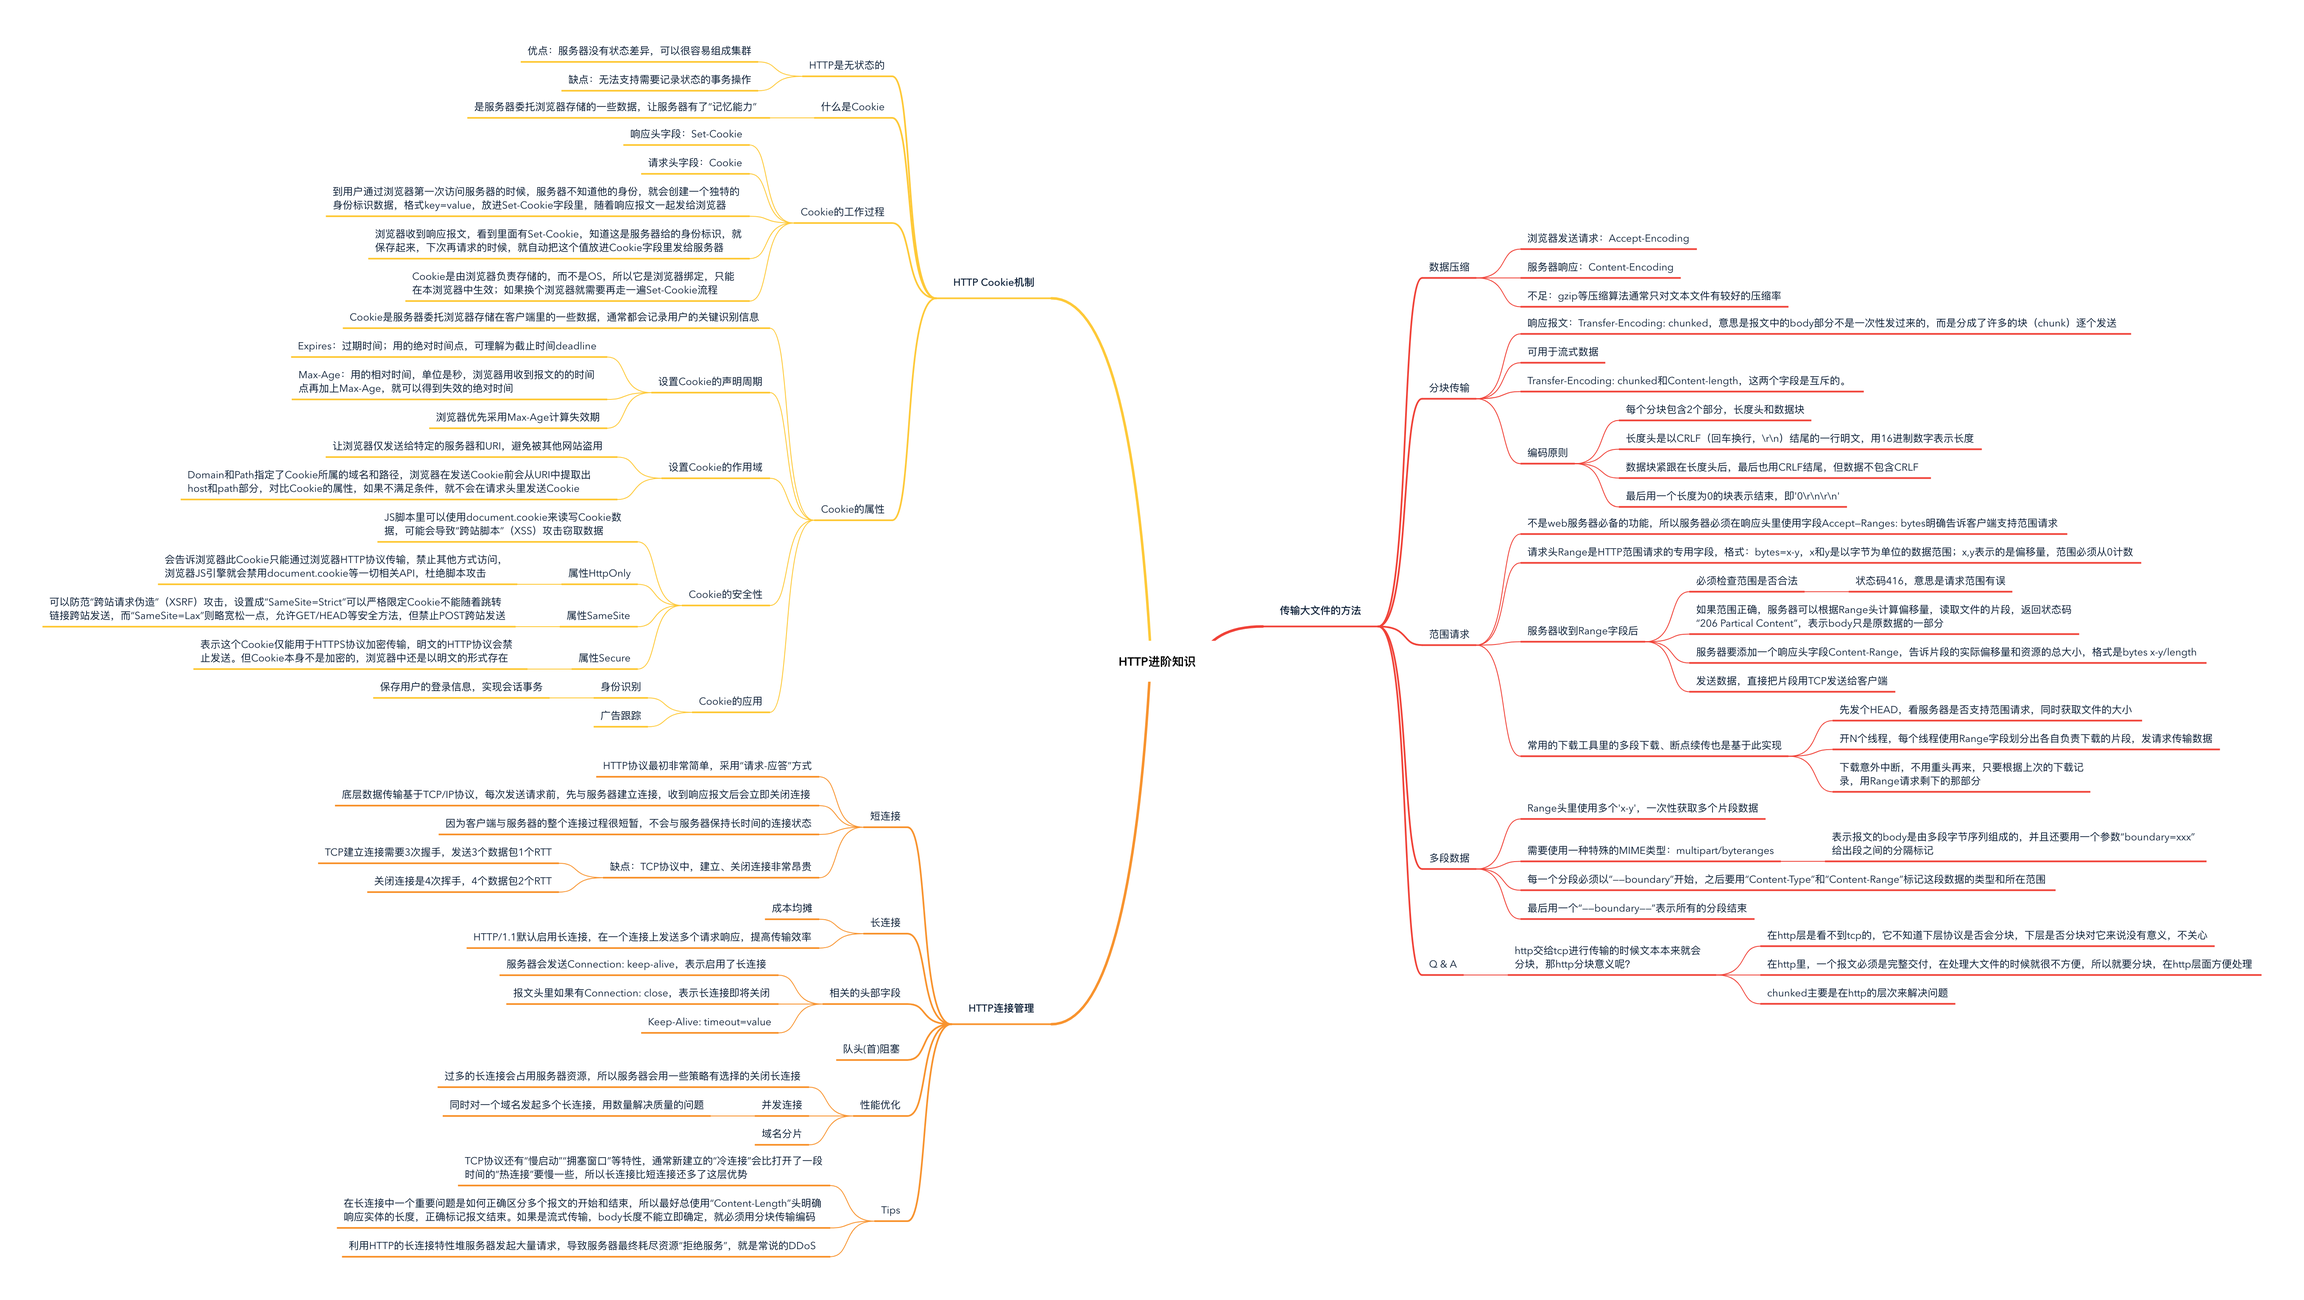
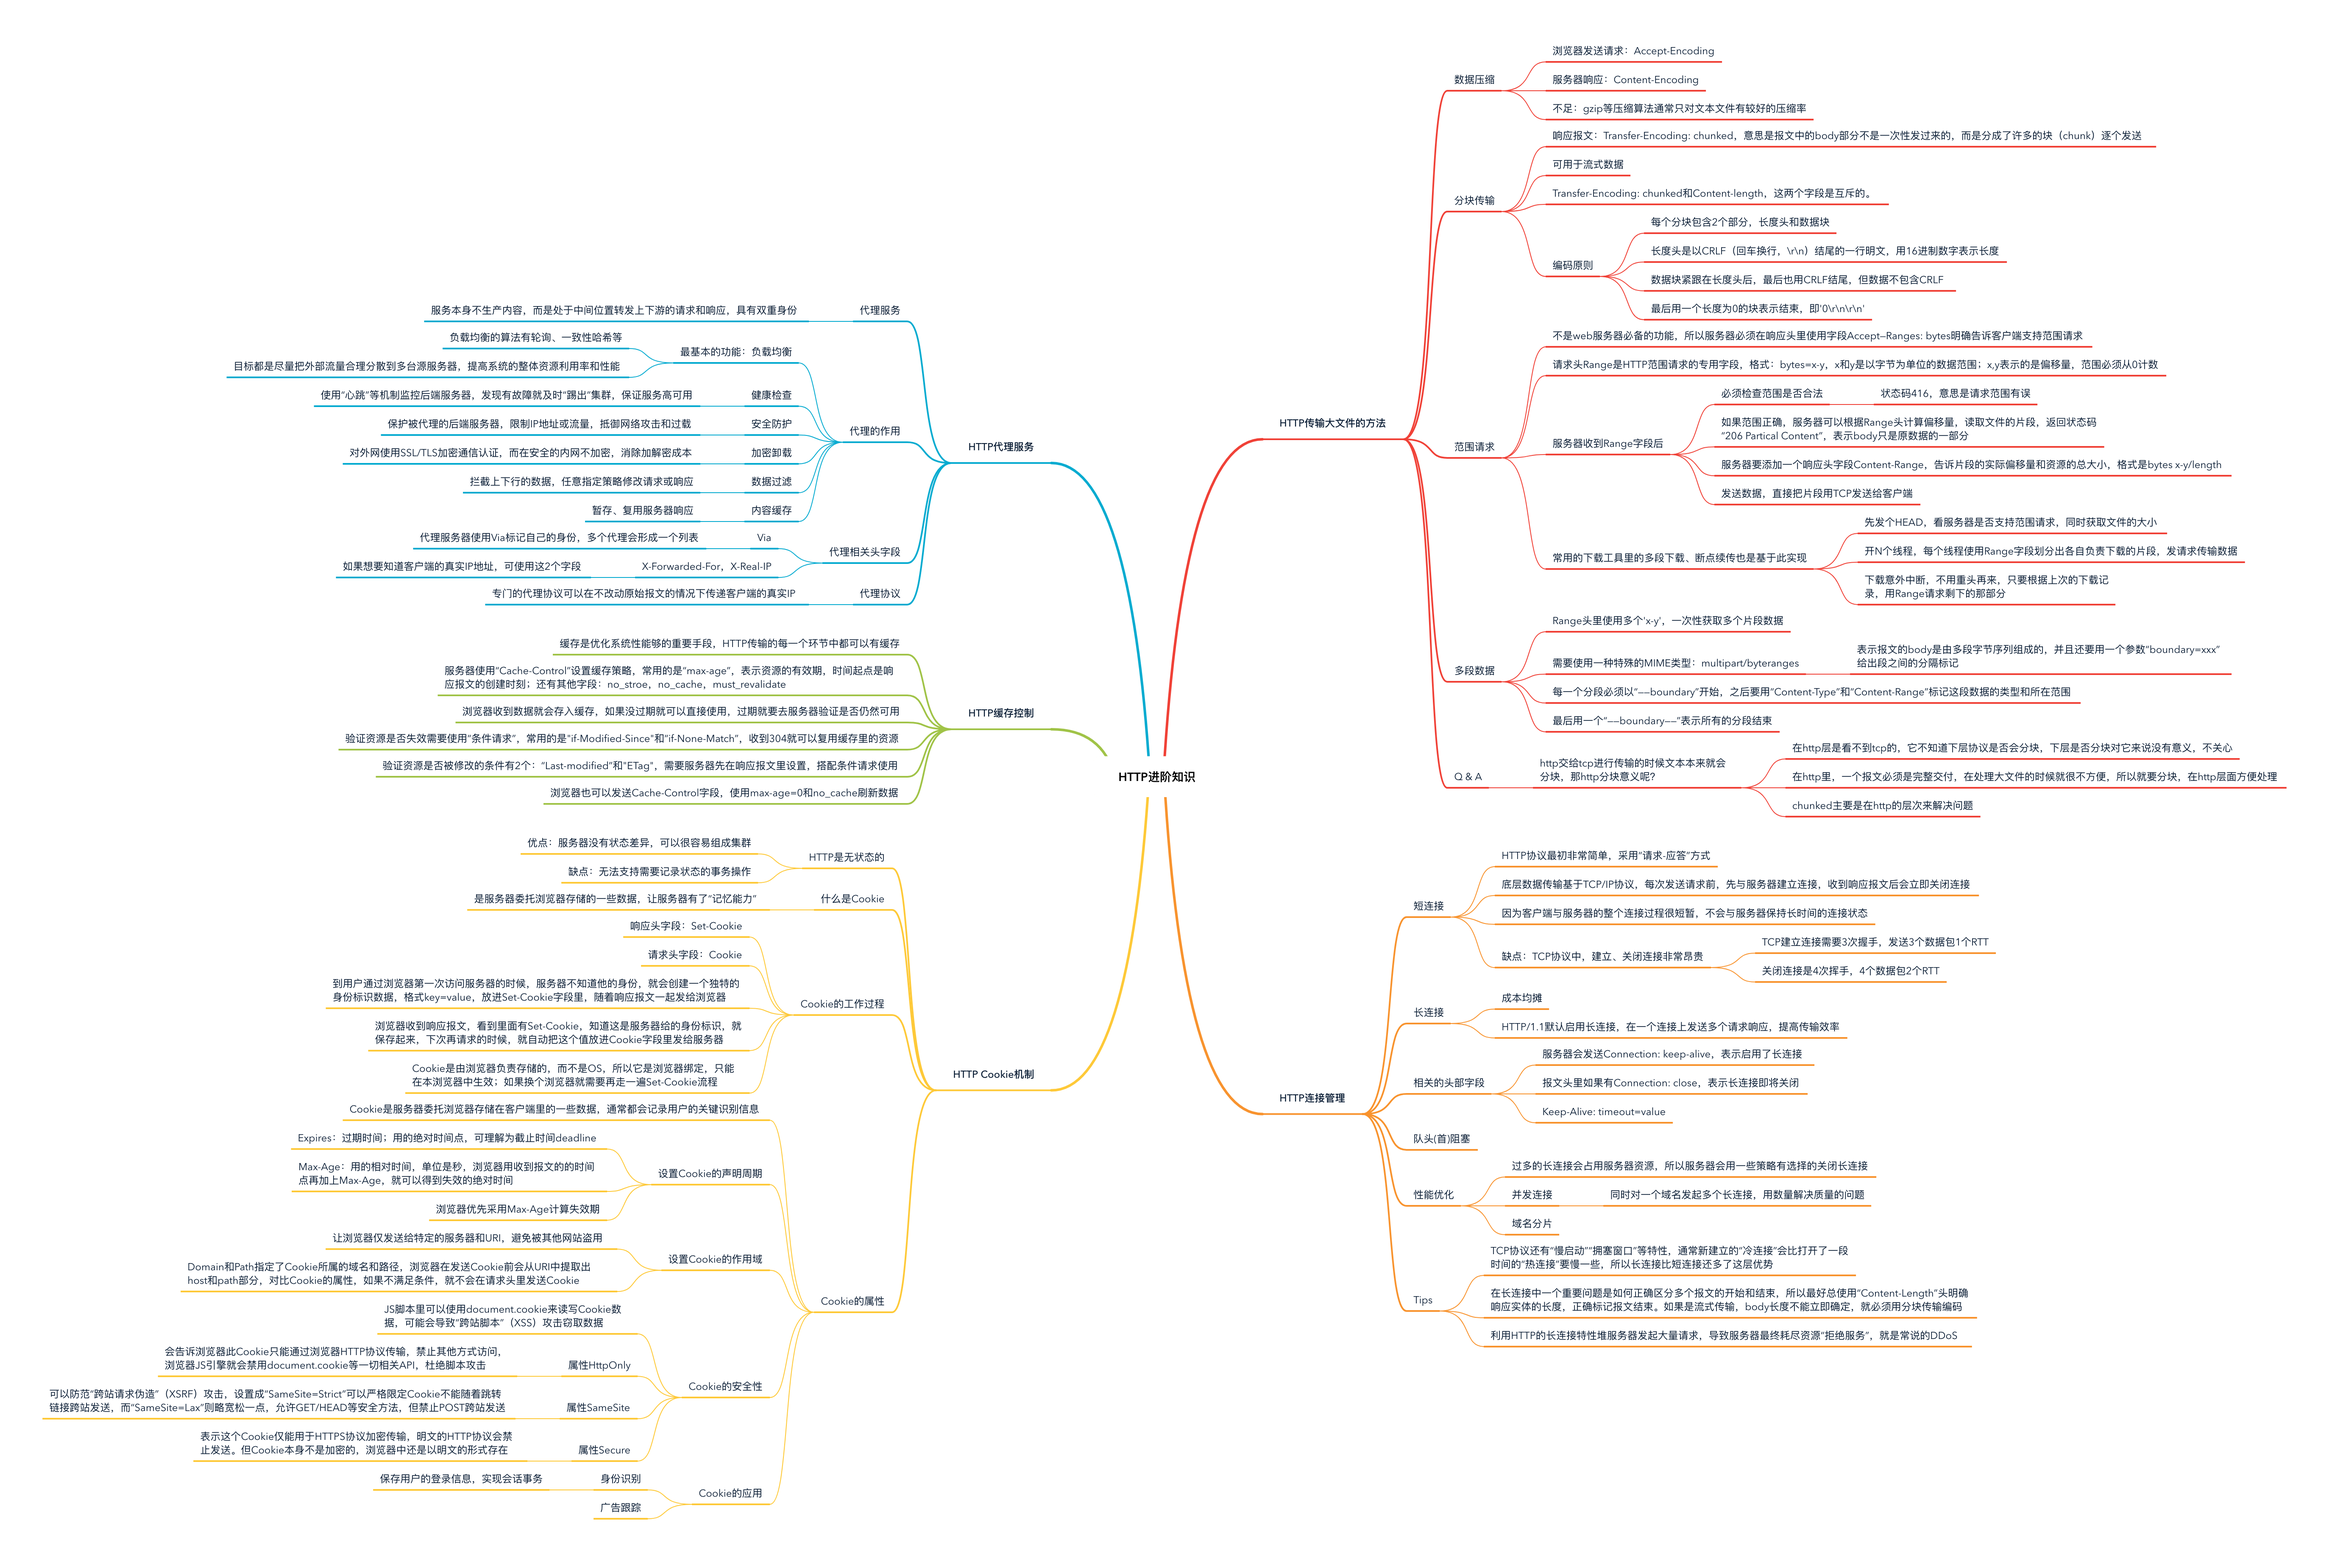
:sparkles: http缓存控制,代理服务

diff --git a/HTTP.md b/HTTP.md
@@ -16,3 +16,5 @@
   - 连接管理
   - 重定向和跳转
   - Cookie 机制
+  - 缓存控制
+  - 代理服务
